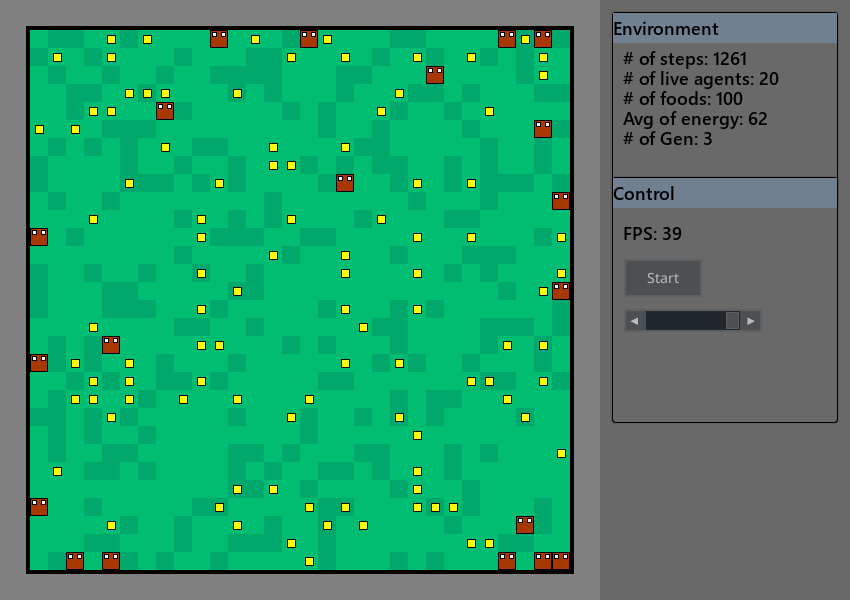
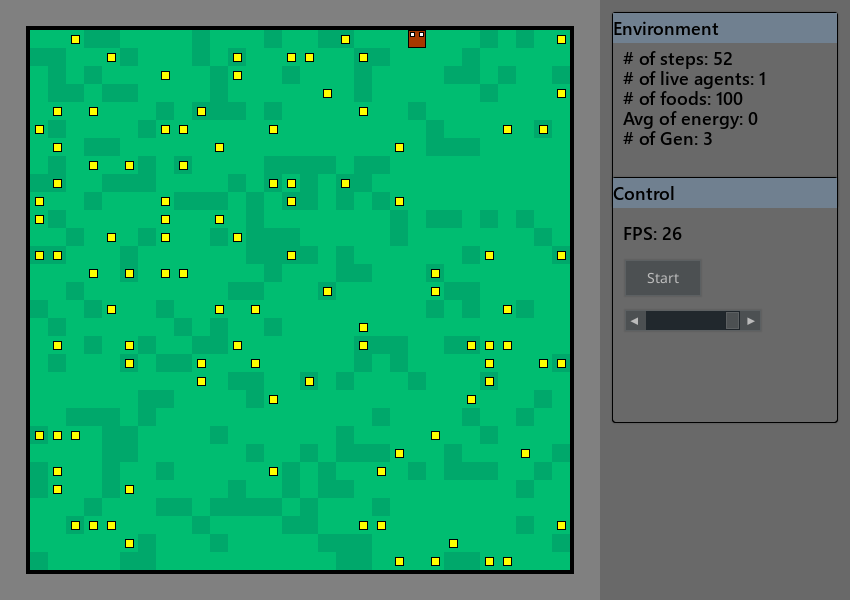
найдет баг с естественной смертью

diff --git a/engine/entities.py b/engine/entities.py
@@ -82,6 +82,10 @@ class Agent(Entity):
         8: (0, -1)
     }
 
+    number_of_agents = 0
+    number_of_natural_deaths = 0
+    number_of_violent_deaths = 0
+
 
     def __init__(self, coord: tuple ,brain, env):
         super().__init__(coord)
@@ -114,6 +118,8 @@ class Agent(Entity):
         
         self.age = 0
         self.is_alive = True
+
+        Agent.number_of_agents += 1
 
 
 
@@ -164,11 +170,21 @@ class Agent(Entity):
 
         croped_world_grid = world_grid_link[top_boundary:bottom_boundary,left_boundary:right_boundary]
 
+        if len(croped_world_grid) == 0:
+
+            print(f'coord - ({row},{col})')
+
+            print('---------')
+            print(f'top_boundary - {top_boundary}')
+            print(f'bottom_boundary - {bottom_boundary}')
+            print(f'left_boundary - {left_boundary}')
+            print(f'right_boundary - {right_boundary}')
+
         # function
-        vectorized_func = np.vectorize(lambda entity: isinstance(entity, entity_type))
+        vectorized_func = np.vectorize(lambda entity: isinstance(entity, entity_type), otypes=[object])
         true_false_grid = vectorized_func(croped_world_grid)
         
-        if return_type == 'instance_list':
+        if return_type == 'instance_list':  
         
             return croped_world_grid[true_false_grid]
 
@@ -180,8 +196,12 @@ class Agent(Entity):
 
             indexes = np.argwhere(true_false_grid)
 
-            indexes[:, 0] += int((top_boundary + bottom_boundary-1) / 2)
-            indexes[:, 1] += int((left_boundary + right_boundary-1) / 2)
+            # indexes[:, 0] += int((top_boundary + bottom_boundary-1) / 2)
+            # indexes[:, 1] += int((left_boundary + right_boundary-1) / 2)
+
+
+            indexes[:, 0] += self.row - distance
+            indexes[:, 1] += self.col - distance
 
             return indexes
 
@@ -191,12 +211,14 @@ class Agent(Entity):
 
 
     def reproduce_if_possible(self):
+        
+        # print(f'Начал размножение |  coord - {self.coord}')
 
         available_locations_list = self.get_surrounding_locations((Grass, Dirt), return_type='coord_list')
 
+        # print(f'available_locations_list - {len(available_locations_list)}')
         
-
-        if len(available_locations_list) != 0 and self.energy <= self.env_link.start_energy_of_agent:
+        if len(available_locations_list) > 0 and self.energy >= self.env_link.start_energy_of_agent: 
 
             random_index = np.random.choice(len(available_locations_list), 1, replace=False)
 
@@ -208,15 +230,21 @@ class Agent(Entity):
             # Создаем новый мозг для этого агента с возможными мутациями
             descendent_brain = self.brain.__class__(genome = self.brain.get_copy_of_genome())
 
+            self.env_link.set_agent_at_location((target_row, target_col), brain=descendent_brain)
+
             # Создаем оболочку Агента
-            self.env_link.world_grid[target_row, target_col] = Agent((target_row, target_col), brain=descendent_brain, env=self.env_link)
-
-
+            # self.env_link.world_grid[target_row, target_col] = Agent((target_row, target_col), brain=descendent_brain, env=self.env_link)
 
             self.energy //= 2
 
+            # print(f'Закончил размножение |  target - ({target_row},{target_col})')
+
         else:
             self.die_or_harakiri()
+            # print(f'Закончил размножение |  умер')
+
+        
+
 
     
     def bite_if_possible(self, direction: int):
@@ -254,6 +282,8 @@ class Agent(Entity):
 
     def photosynthesis(self):
         self.energy += self.env_link.photosynthesis_energy
+
+        # print(f'Сделал фотосинтез |  coord - {self.coord}')
 
 
     def move_if_possible(self, direction: int):
@@ -328,19 +358,24 @@ class Agent(Entity):
 
     def check_is_alive(self):
 
-        self.is_alive = (self.energy > 0 and self.age <= self.max_age) and self.is_alive == True
 
         if (self.energy > 0 and self.age <= self.max_age) == False:
-
             self.natural_death = True
+
+        self.is_alive = (self.energy > 0 and self.age <= self.max_age) and self.is_alive == True
+
 
         return self.is_alive
     
     def die_or_harakiri(self):
+        
         self.is_alive = False
         self.env_link.world_grid[self.row,self.col] = self.under_entity_reference
 
+        Agent.number_of_agents -= 1
+
     def got_bitten(self):
+        Agent.number_of_agents -= 1
         self.is_alive = False
         self.be_eaten = True
         return self.energy//2

diff --git a/applications.py b/applications.py
@@ -214,31 +214,104 @@ class GeneticAlgorithmApp():
 
 
 
+
 class OpenEndedApp():
-    def __init__(self, parameters):
+    def __init__(self, env_parameters, visualization_flag=True, excel_flag=True):
 
-        self.NUM_OF_TILE_ROWS = parameters['NUM_OF_TILE_ROWS']
-        self.NUM_OF_TILE_COLS = parameters['NUM_OF_TILE_COLS']
 
-        self.POPULATION_SIZE = parameters['POPULATION_SIZE']
-        self.MAX_NUMBER_OF_FOODS = parameters['MAX_NUMBER_OF_FOODS']
+        # App parameters
+        self.visualization_flag = visualization_flag
 
-        self.env = Environment(shape=(self.NUM_OF_TILE_ROWS, self.NUM_OF_TILE_COLS), parameters=parameters)
+        self.NUM_OF_TILE_ROWS = env_parameters['NUM_OF_TILE_ROWS']
+        self.NUM_OF_TILE_COLS = env_parameters['NUM_OF_TILE_COLS']
+        self.POPULATION_SIZE = env_parameters['POPULATION_SIZE']
+        self.MAX_NUMBER_OF_FOODS = env_parameters['MAX_NUMBER_OF_FOODS']
+
+
+        self.env = Environment(shape=(self.NUM_OF_TILE_ROWS, self.NUM_OF_TILE_COLS), parameters=env_parameters)
 
         self.env.generate_random_landscape()
 
 
         # Первая популяция
-        self.env.generate_random_agents(brain_class=Classic_NN_brain, number_of_agents=self.POPULATION_SIZE)
+        coord = (self.NUM_OF_TILE_ROWS-1, self.NUM_OF_TILE_COLS-1)
+        self.viable_genome = np.array([0,0,0,0,0,0,0,0,0,0,0,0,0,0,0,0])
+        print(self.viable_genome)
+        self.env.set_agent_at_location(coord, brain=Programmatic_brain(genome=self.viable_genome))
+
         self.env.generate_foods(self.MAX_NUMBER_OF_FOODS)
 
 
 
-        self.vis = Visualization(self.NUM_OF_TILE_ROWS, self.NUM_OF_TILE_COLS)
-        self.vis.visualize_all(self.env)
+        if visualization_flag:
+            stats ={'average_energy_number': env_parameters['START_AGENT_ENERGY'],
+                    'number_of_generations': 0}
+            self.vis = Visualization(self.NUM_OF_TILE_ROWS, self.NUM_OF_TILE_COLS)
+            self.vis.visualize_all(self.env, stats)
+
 
     
-    def run(self, visualization_flag=True):
-        pass
+    def run(self):
+
+
+
+        
+        stats ={'average_energy_number': self.env.start_energy_of_agent,
+                'number_of_generations': 0}
+
+        fps_control_flag = True
+
+        generation_counter = 1
+
+        while True:
+                    
+
+            
+            if self.visualization_flag:
+
+                # Нужно чтобы работал speed slider
+                self.vis.calculate_time_delta()
+
+                # кнопки жмяк
+                self.vis.process_gui_events()
+                
+                fps_control_flag = self.vis.get_fps_control_flag()
+
+            
+            if fps_control_flag:
+                
+                # Сначала выполняем 1 шаг/итерацию среды 
+                current_agent_list = self.env.make_step() # в этом списке могут быть мертвые и уже удаленные с карты агенты
+
+                if self.env.number_of_agents <= 0:
+                    
+                    # print('НОВАЯ ГЕНЕРАЦИЯ')
+                    self.env.distribute_agents_on_map([Programmatic_brain(genome=self.viable_genome)])
+                    generation_counter += 1
+                    
+                energy_list = [agent.energy for agent in current_agent_list]
+                print(f'len(current_agent_list) - {len(current_agent_list)}')
+
+                print(f'current_agent_list[0].genome - {current_agent_list[0].genome}')
+                print(f'current_agent_list[0].energy - {current_agent_list[0].energy}')
+                print(f'current_agent_list[0].is_alive - {current_agent_list[0].is_alive}')
+                print(f'current_agent_list[0].natural_death - {current_agent_list[0].natural_death}')
+                print(f'current_agent_list[0].be_eaten - {current_agent_list[0].be_eaten}')
+
+
+
+
+
+
+                stats['average_energy_number'] = int(np.average(energy_list))
+                stats['number_of_generations'] = generation_counter
+
+
+            if self.visualization_flag:
+                # рисуем парашу
+                self.vis.visualize_all(self.env, stats)
+                        
+
+
 
 

diff --git a/engine/brains.py b/engine/brains.py
@@ -27,10 +27,10 @@ class Programmatic_brain:
     # Геном это та вещь которая будет подвержина мутациям и будет передаваться по наследству
     # Мозг это та вещь которая помогает боту выбрать действие, это как обработчик генома
 
-    def __init__(self, genome = None):
+    def __init__(self, genome = None, length_of_genome = 16):
 
         self.counter = 0
-        self.length_of_genome = 16
+        self.length_of_genome = length_of_genome
 
         # genome это umpy array
         self.genome = genome if genome is not None else self.generate_random_genome()

diff --git a/main.py b/main.py
@@ -1,4 +1,4 @@
-from applications import GeneticAlgorithmApp
+from applications import *
 
 
 
@@ -9,6 +9,7 @@ env_parameters = {'NUM_OF_TILE_ROWS': 30,
                   'NUMBER_OF_NEW_FOODS':10,
                   'FOOD_NUTRIATION':30,
                   'START_AGENT_ENERGY':30,
+                  'PHOTOSYNTHESIS_ENERGY':3,
                   'MAX_AGENT_AGE':float('inf')}
 
 
@@ -17,5 +18,9 @@ ga_parameters ={'NUMBER_OF_GENERATIONS':500,
 
 
 
-app = GeneticAlgorithmApp(env_parameters, ga_parameters, visualization_flag=True)
+# app = GeneticAlgorithmApp(env_parameters, ga_parameters, visualization_flag=True)
+# app.run()
+
+
+app = OpenEndedApp(env_parameters, visualization_flag=True)
 app.run()

diff --git a/visualization/visualization.py b/visualization/visualization.py
@@ -220,7 +220,7 @@ class Visualization():
         self.fps_label.set_text(f"FPS: {round(self.clock.get_fps())}")
         self.step_label.set_text(f"# of steps: {env.step_counter}")
 
-        self.number_of_agents_label.set_text(f"# of live agents: {env.number_of_agents}")
+        self.number_of_agents_label.set_text(f"# of live agents: {Agent.number_of_agents}") # env.number_of_agents
         self.number_of_foods_label.set_text(f"# of foods: {env.number_of_foods}")
         self.number_of_avg_energy_label.set_text(f"Avg of energy: {stats['average_energy_number']}")
 

diff --git a/engine/environment.py b/engine/environment.py
@@ -22,6 +22,7 @@ class Environment():
         self.number_of_new_foods = parameters['NUMBER_OF_NEW_FOODS']
         self.nutriation = parameters['FOOD_NUTRIATION']
         self.start_energy_of_agent = parameters['START_AGENT_ENERGY']
+        self.photosynthesis_energy = parameters['PHOTOSYNTHESIS_ENERGY']
         self.max_age = parameters['MAX_AGENT_AGE']
 
 
